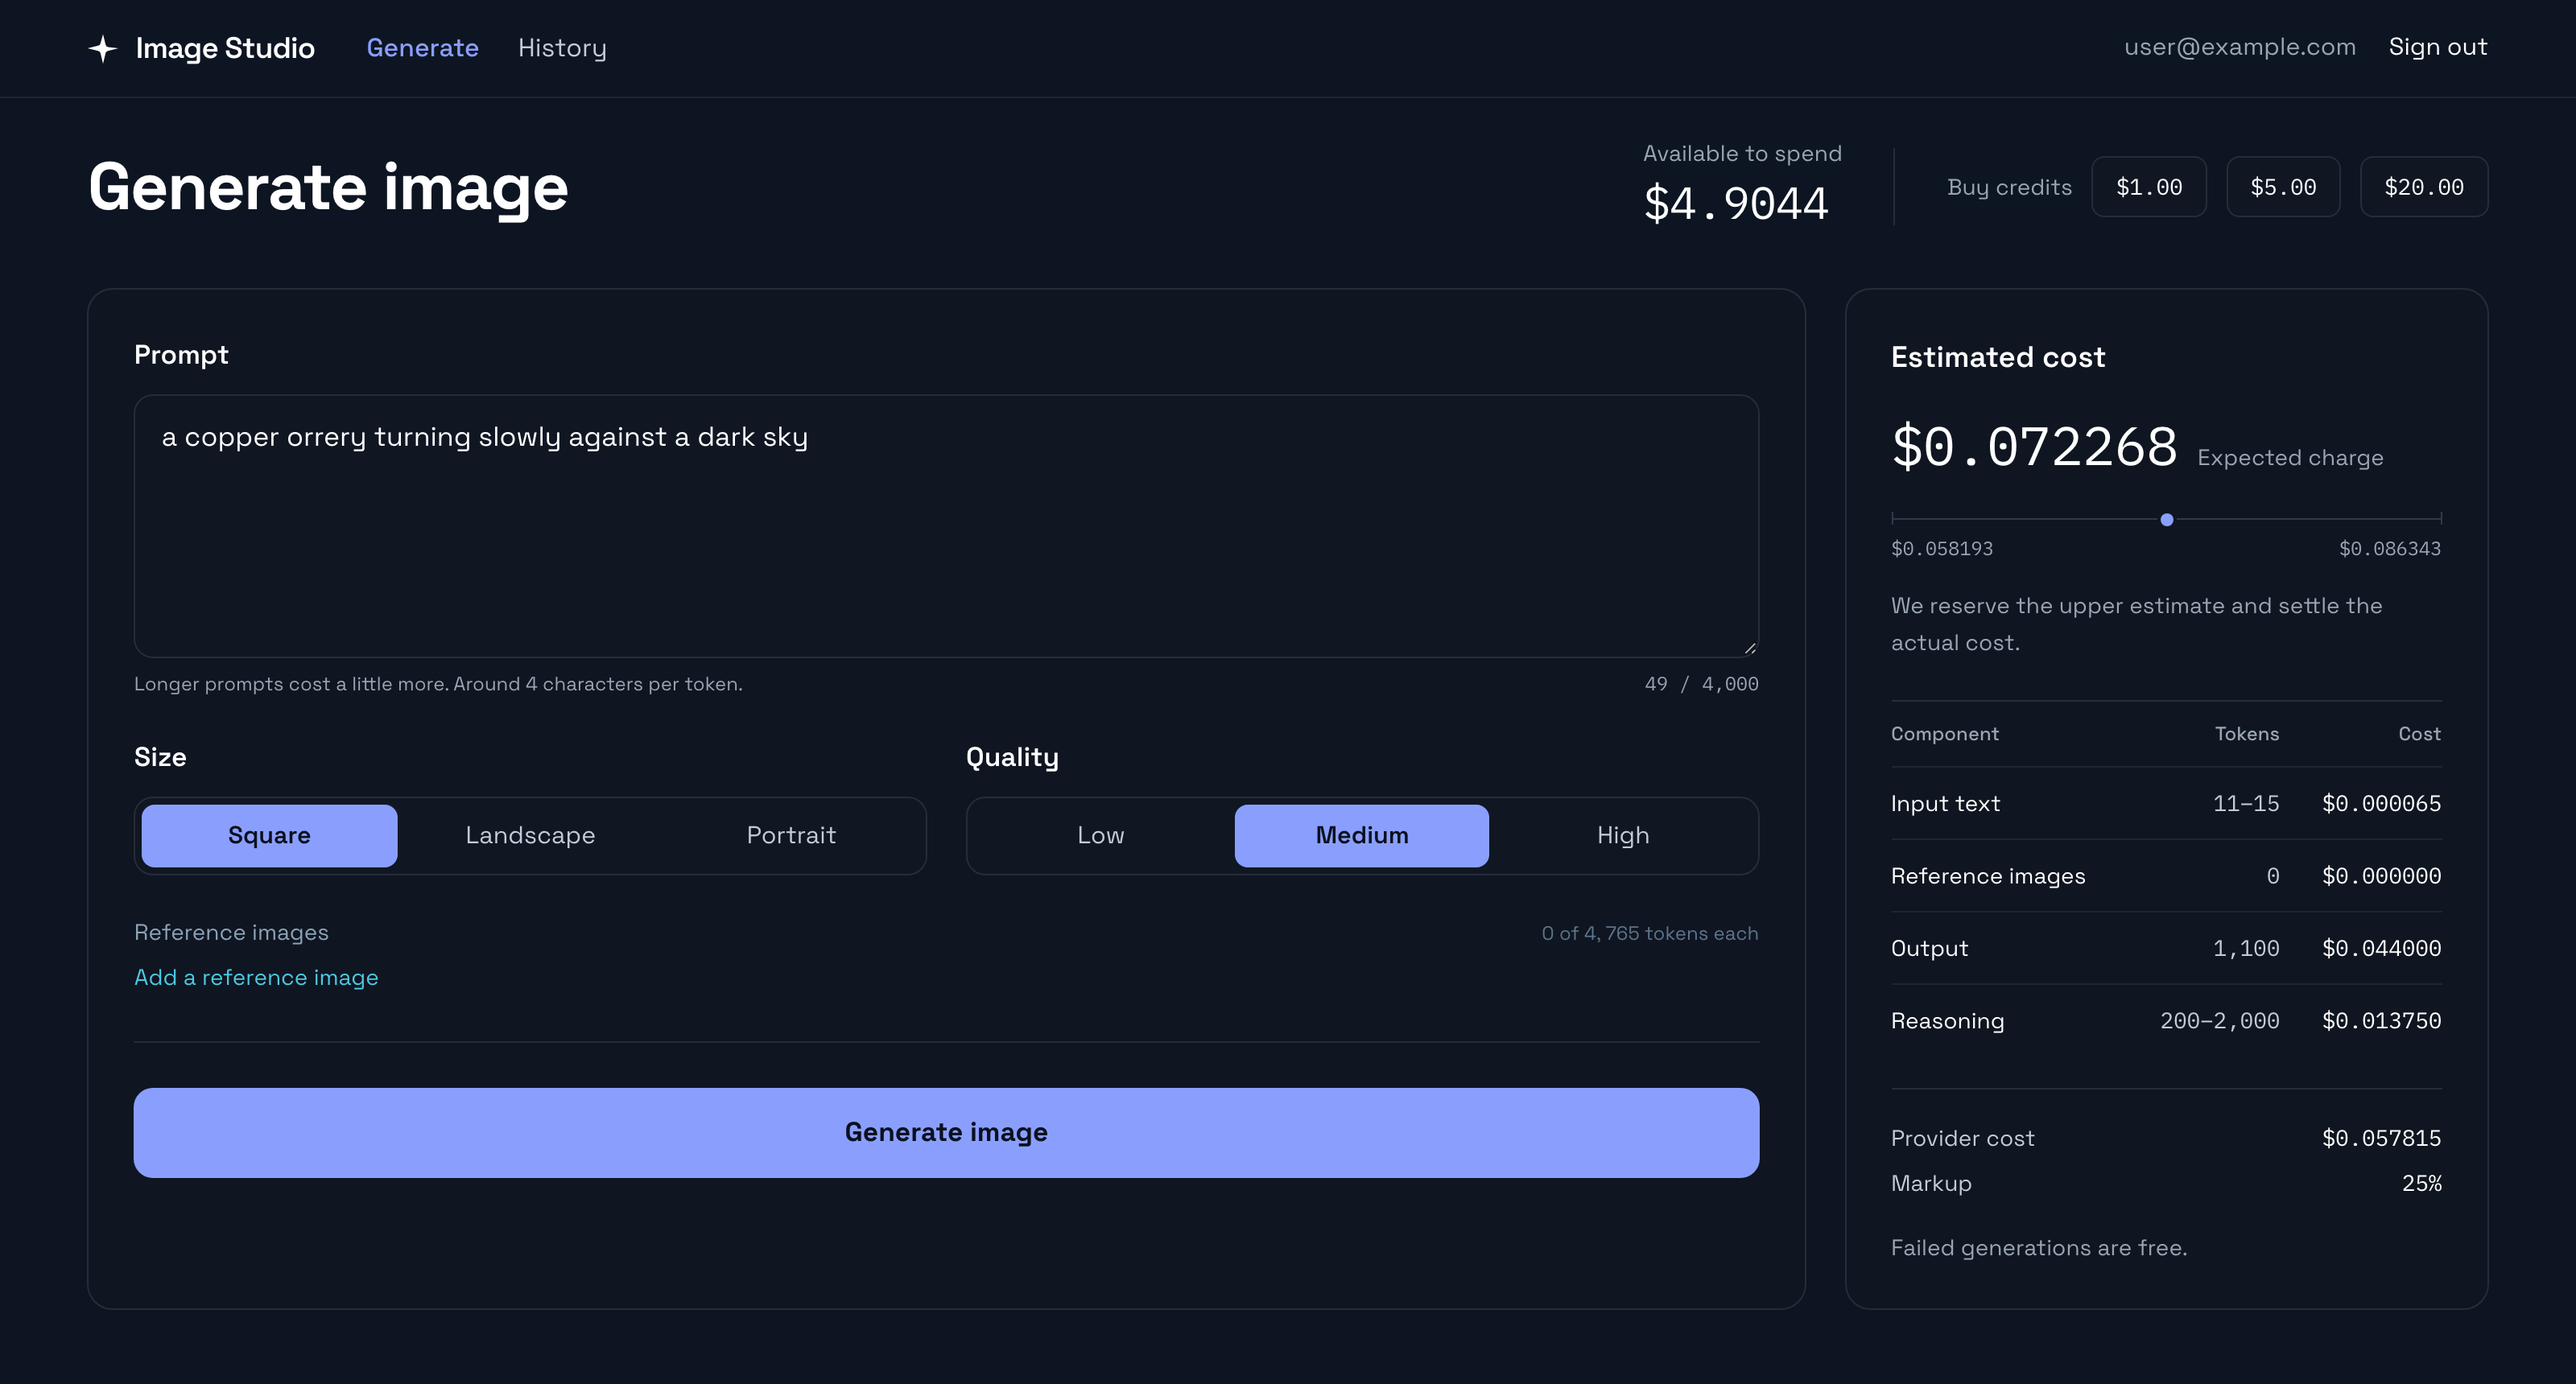
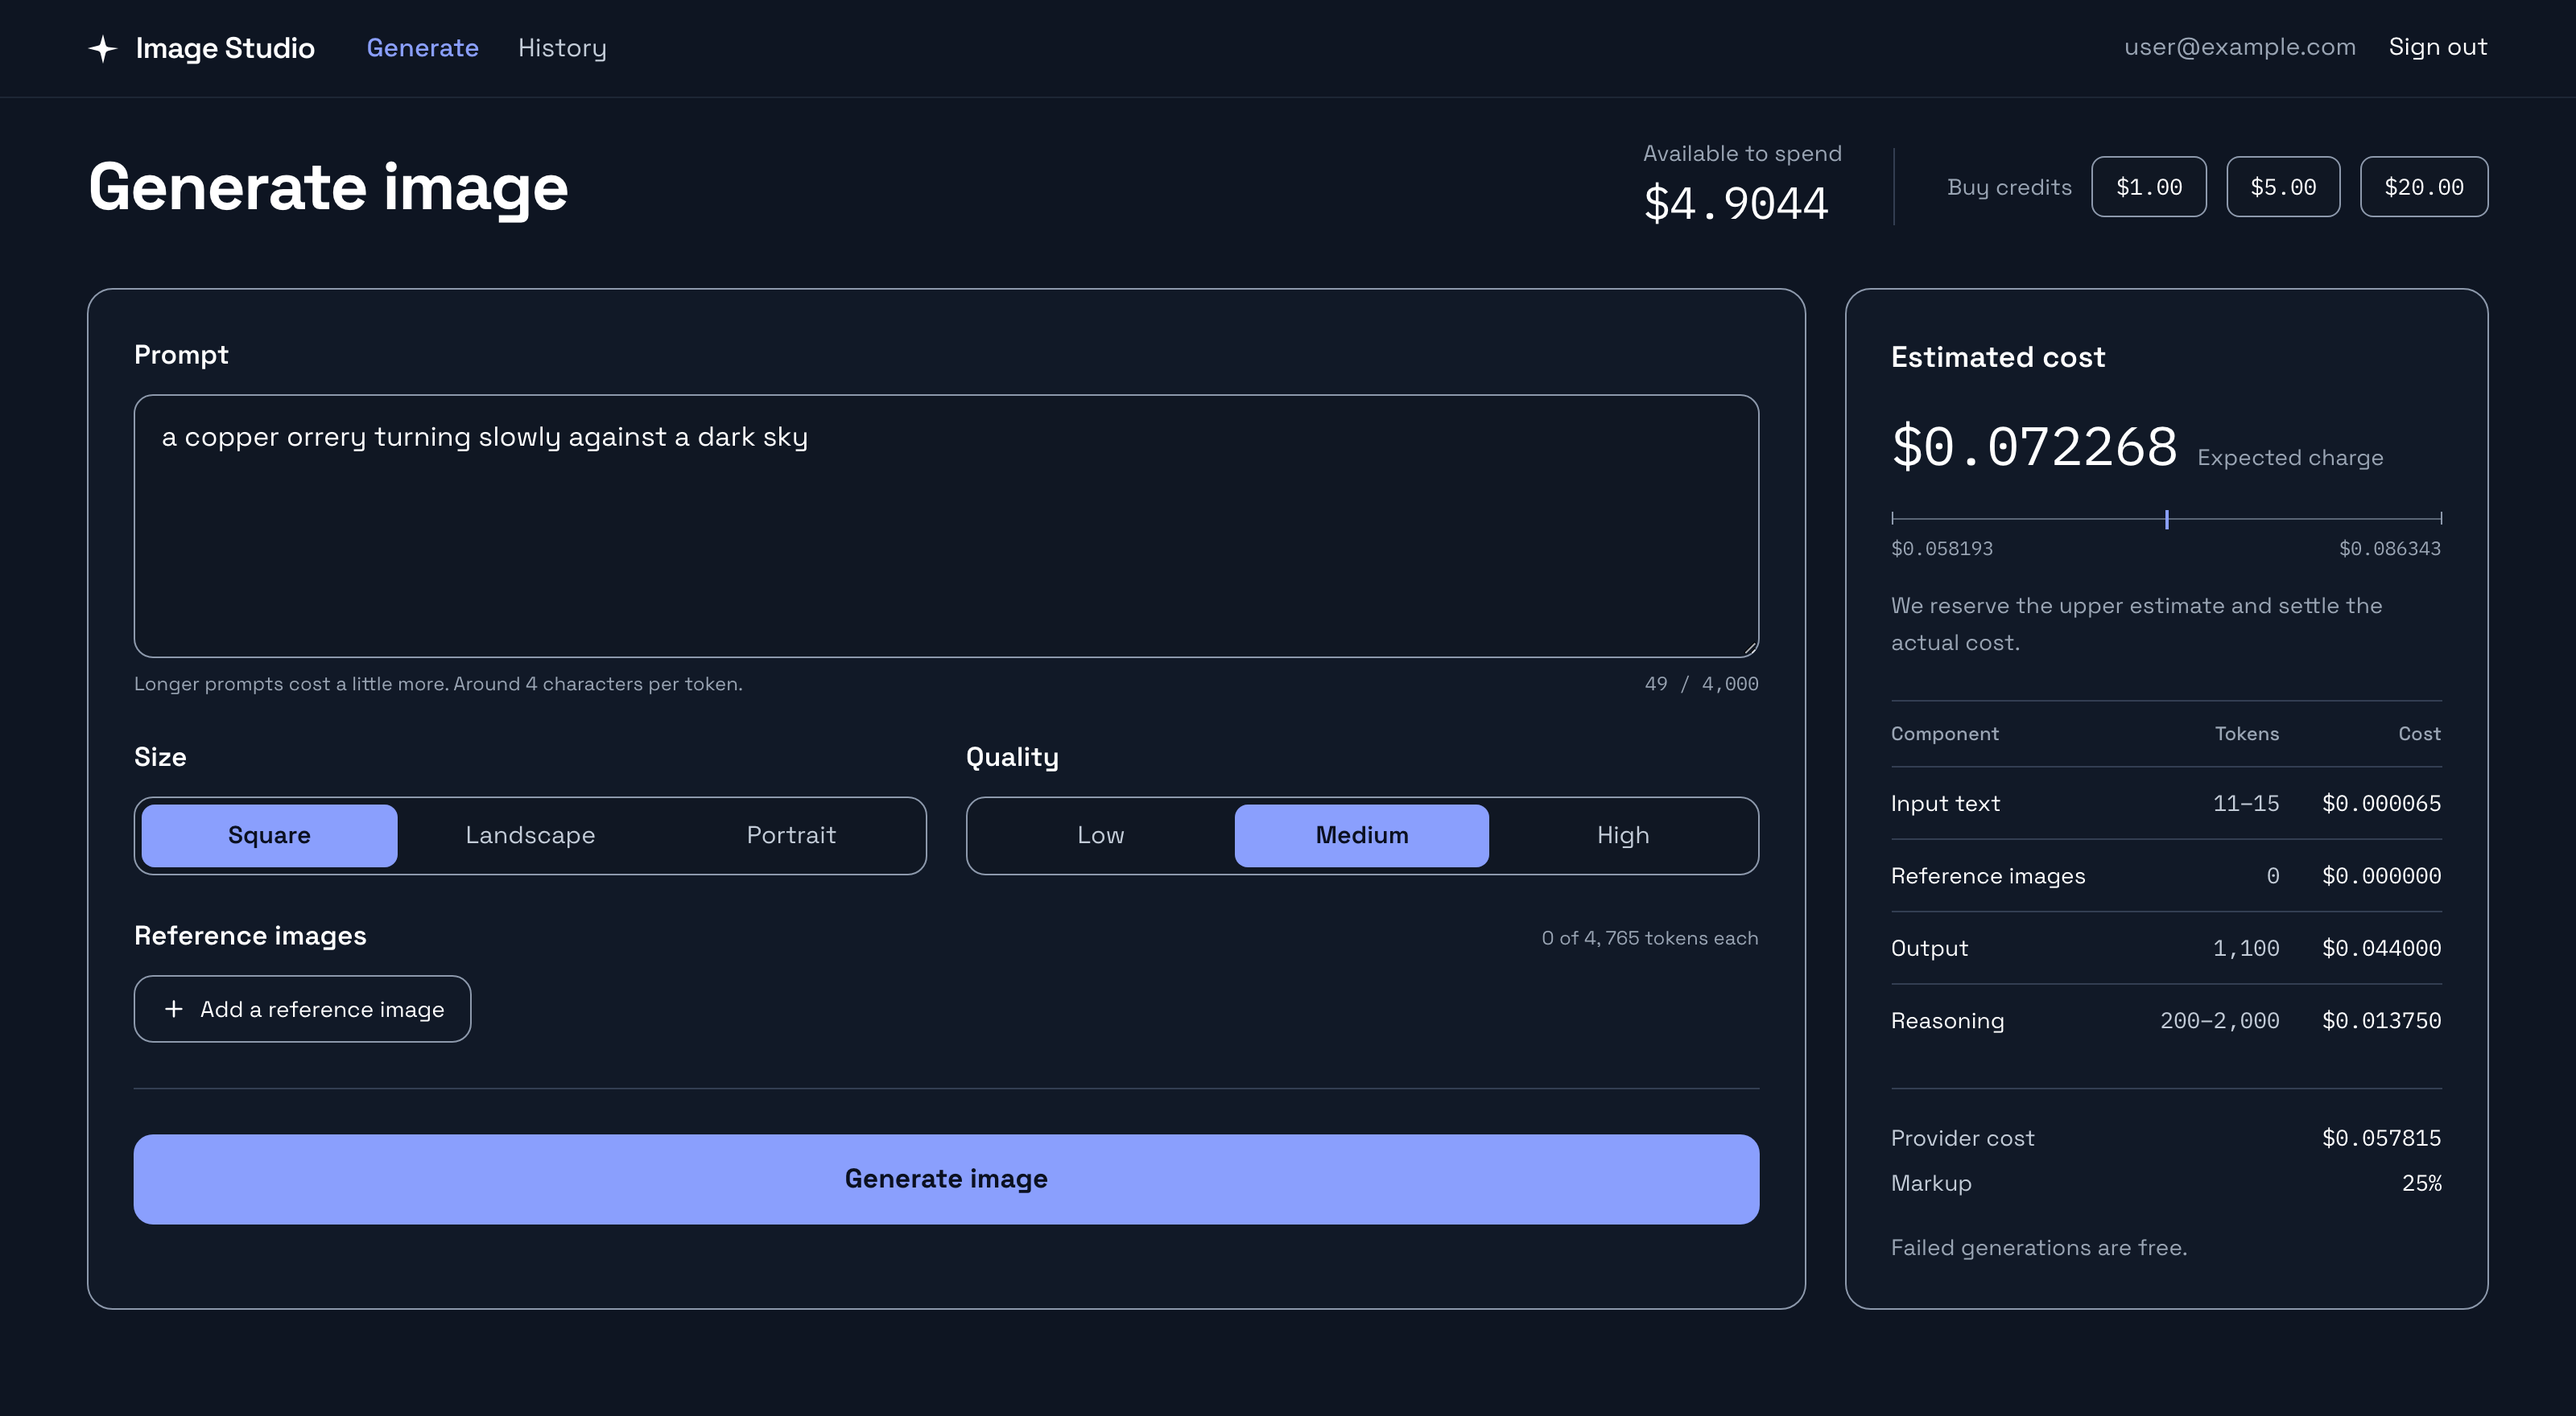
Drop the duplicate expected-charge label and refresh the screenshot
The screen-reader label I added repeated the caption already sitting
beside the figure, which gave assistive tech the same words twice and
broke an existing assertion. The caption was always readable; only the
two bounds reached a screen reader as bare amounts, and those keep their
labels.

README screenshot regenerated for the new Generate surface, outline and
tick marker.

diff --git a/tests/e2e/generate.spec.js b/tests/e2e/generate.spec.js
@@ -170,7 +170,7 @@ test.describe('the estimate range', () => {
     test('names which figure is expected, lowest and highest', async ({ page }) => {
         // The bar itself is hidden from assistive tech, so every figure it plots
         // has to be announced as labelled text.
-        await expect(page.getByText('Expected charge', { exact: true }).first()).toBeAttached()
+        await expect(page.getByText('Expected charge', { exact: true })).toBeVisible()
         await expect(page.getByText('Lowest estimate', { exact: true })).toBeAttached()
         await expect(page.getByText('Highest estimate', { exact: true })).toBeAttached()
     })

diff --git a/resources/js/Pages/Generations/Create.vue b/resources/js/Pages/Generations/Create.vue
@@ -223,11 +223,10 @@ function submit(): void {
             </div>
 
             <div class="mt-4 flex flex-wrap items-baseline gap-x-3">
-                <span class="sr-only">Expected charge</span>
                 <span data-testid="estimate-expected" class="figure text-[2.1rem] text-white">
                     ${{ estimate.charge.expected.usd.slice(0, 8) }}
                 </span>
-                <span class="text-sm text-[#9aa5b4]" aria-hidden="true">Expected charge</span>
+                <span class="text-sm text-[#9aa5b4]">Expected charge</span>
             </div>
 
             <div class="mt-5">
